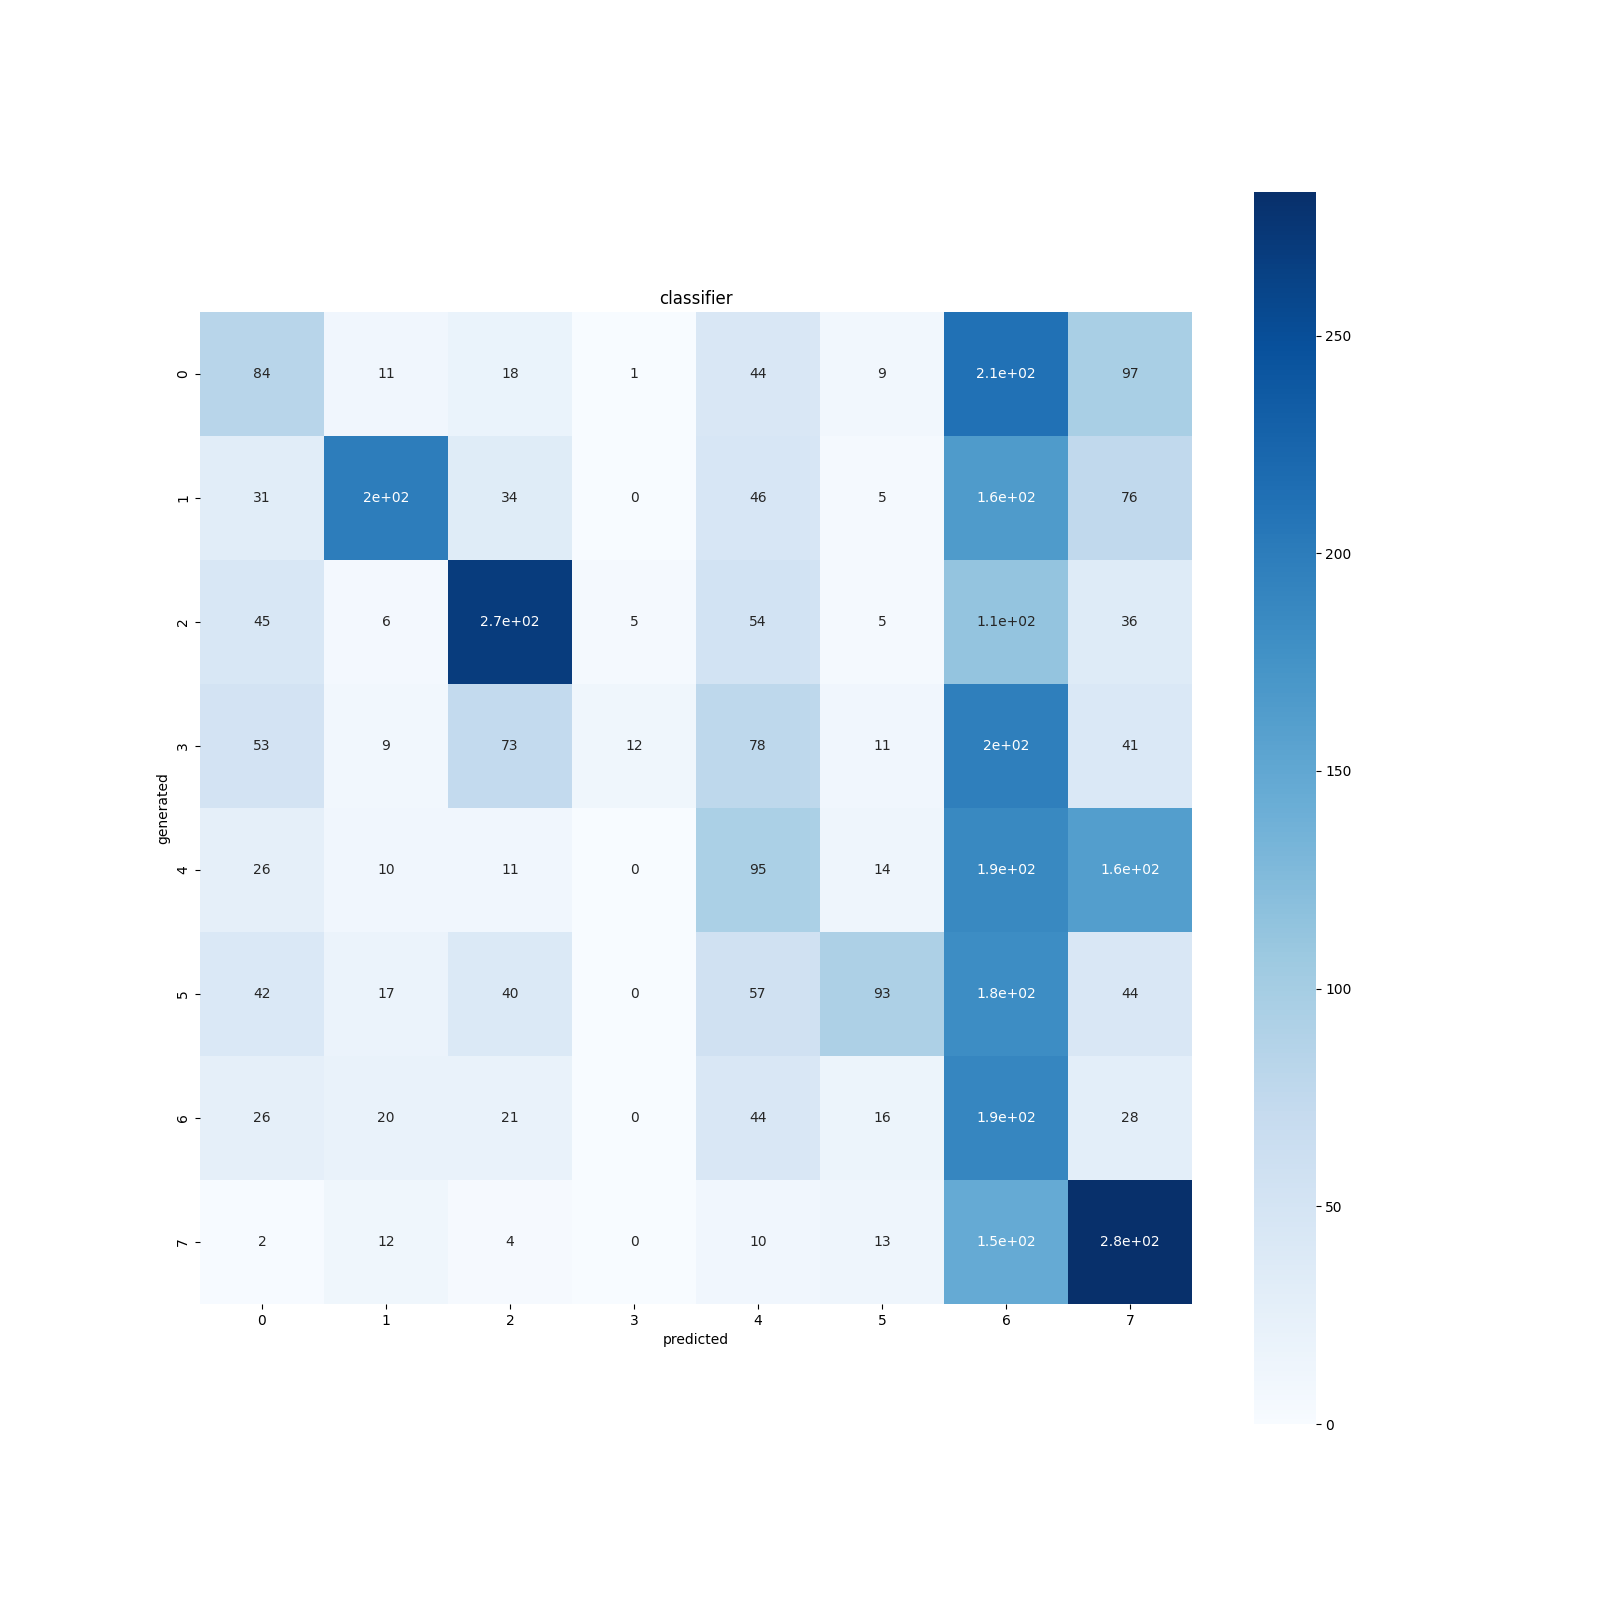
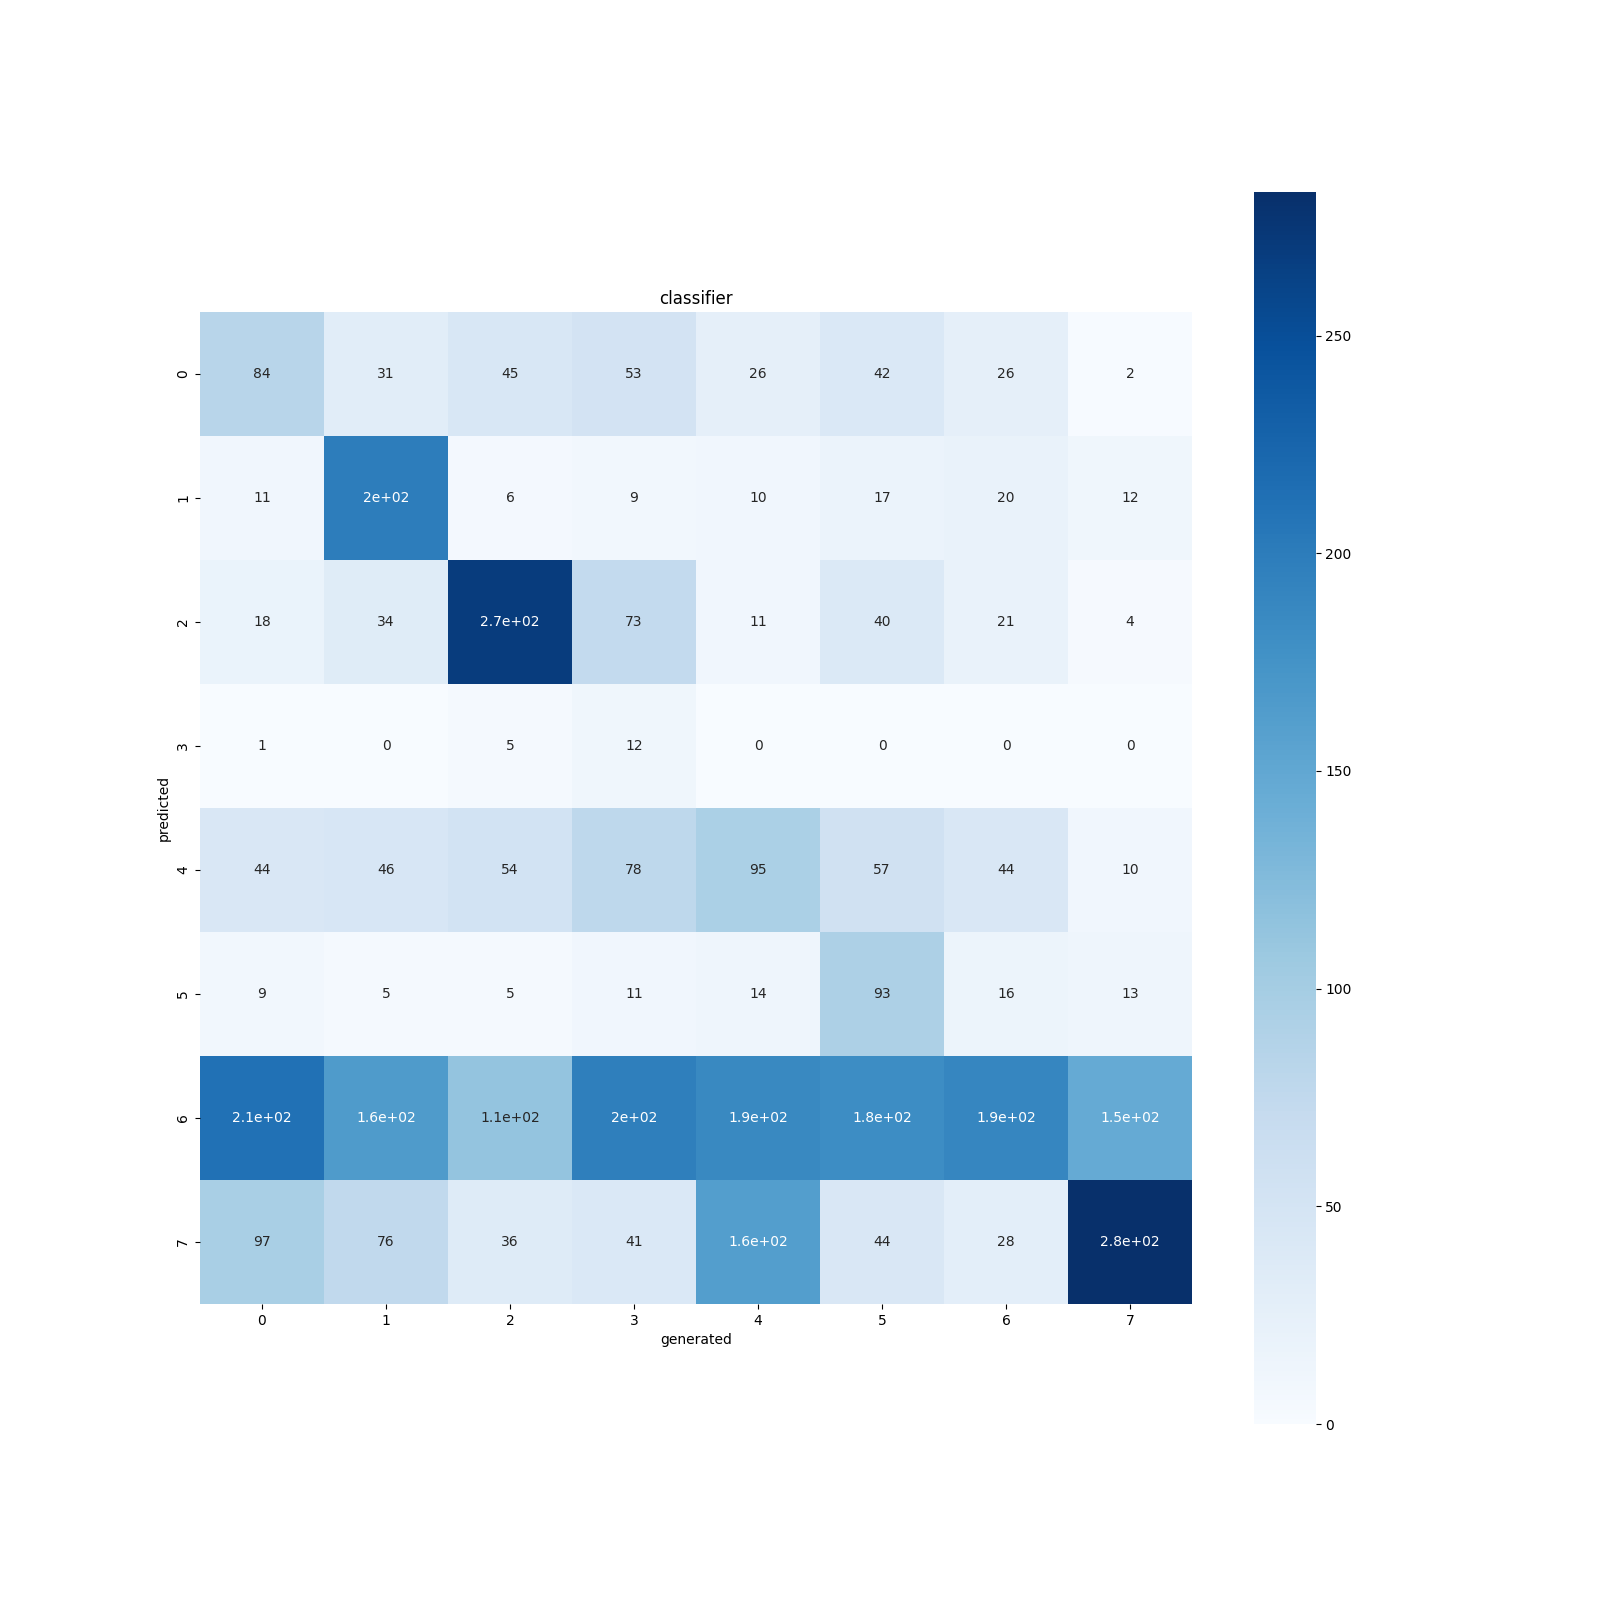
fix: validation

Changed region(s): [[0.0938, 0.1875, 0.75, 0.8438]]

diff --git a/validation/aa_predict_my_kw2title.py b/validation/aa_predict_my_kw2title.py
@@ -5,7 +5,7 @@ import seaborn
 import csv
 
 
-df_pred = pd.read_csv("./my_firs_app_kw2title_t5-ep20-wobody.csv")
+df_pred = pd.read_csv("./my_firs_app_kw2title_t5-ep20-wobody_pred.csv")
 appealing_axis_pred = df_pred.label.tolist()
 
 # 0-7の数字をrepeat_count回繰り返したリストを作成
@@ -14,6 +14,7 @@ print(appealing_axis_true)
 
 name = [0, 1, 2, 3, 4, 5, 6, 7]
 val_mat = confusion_matrix(appealing_axis_true, appealing_axis_pred, labels=name)
+val_mat = pd.DataFrame(val_mat).T.values.tolist()
 acc_score = accuracy_score(appealing_axis_true, appealing_axis_pred)
 rec_score = recall_score(appealing_axis_true, appealing_axis_pred, average=None)
 pre_score = precision_score(appealing_axis_true, appealing_axis_pred, average=None)
@@ -30,8 +31,8 @@ print(f"macro-F1 score: {macro_f1_score}")
 plt.figure(figsize=(16, 16))
 seaborn.heatmap(val_mat, square=True, cbar=True, annot=True, cmap='Blues')
 plt.title("classifier")
-plt.xlabel("predicted")
-plt.ylabel("generated")
+plt.ylabel("predicted")
+plt.xlabel("generated")
 plt.savefig("my_first_app_kw2title.png")
 
 with open("./my_first_app_kw2title.txt", "w") as f:

diff --git a/validation/aa_predict_kw2title.py b/validation/aa_predict_kw2title.py
@@ -10,6 +10,7 @@ appealing_axis_true = [ 8 for _ in range(len(appealing_axis_pred))]
 
 name = [0, 1, 2, 3, 4, 5, 6, 7, 8]
 val_mat = confusion_matrix(appealing_axis_true, appealing_axis_pred, labels=name)
+val_mat = pd.DataFrame(val_mat).T.values.tolist()
 acc_score = accuracy_score(appealing_axis_true, appealing_axis_pred)
 rec_score = recall_score(appealing_axis_true, appealing_axis_pred, average=None)
 pre_score = precision_score(appealing_axis_true, appealing_axis_pred, average=None)
@@ -26,8 +27,8 @@ print(f"macro-F1 score: {macro_f1_score}")
 plt.figure(figsize=(16, 16))
 seaborn.heatmap(val_mat, square=True, cbar=True, annot=True, cmap='Blues')
 plt.title("classifier")
-plt.xlabel("predicted")
-plt.ylabel("generated")
+plt.ylabel("predicted")
+plt.xlabel("generated")
 plt.savefig("kw2title.png")
 
 with open("./kw2title.txt", "w") as f:

diff --git a/validation/aa_predict_app_kw2title.py b/validation/aa_predict_app_kw2title.py
@@ -14,6 +14,7 @@ print(appealing_axis_true)
 
 name = [0, 1, 2, 3, 4, 5, 6, 7]
 val_mat = confusion_matrix(appealing_axis_true, appealing_axis_pred, labels=name)
+val_mat = pd.DataFrame(val_mat).T.values.tolist()
 acc_score = accuracy_score(appealing_axis_true, appealing_axis_pred)
 rec_score = recall_score(appealing_axis_true, appealing_axis_pred, average=None)
 pre_score = precision_score(appealing_axis_true, appealing_axis_pred, average=None)
@@ -30,8 +31,8 @@ print(f"macro-F1 score: {macro_f1_score}")
 plt.figure(figsize=(16, 16))
 seaborn.heatmap(val_mat, square=True, cbar=True, annot=True, cmap='Blues')
 plt.title("classifier")
-plt.xlabel("predicted")
-plt.ylabel("generated")
+plt.ylabel("predicted")
+plt.xlabel("generated")
 plt.savefig("app_kw2title.png")
 
 with open("./app_kw2title.txt", "w") as f:

diff --git a/validation/classifier_validation.py b/validation/classifier_validation.py
@@ -11,6 +11,7 @@ appealing_axis_pred = df_pred.label.tolist()
 
 name = [0, 1, 2, 3, 4, 5, 6, 7, 8]
 val_mat = confusion_matrix(appealing_axis_true, appealing_axis_pred, labels=name)
+val_mat = pd.DataFrame(val_mat).T.values.tolist()
 acc_score = accuracy_score(appealing_axis_true, appealing_axis_pred)
 rec_score = recall_score(appealing_axis_true, appealing_axis_pred, average=None)
 pre_score = precision_score(appealing_axis_true, appealing_axis_pred, average=None)
@@ -27,6 +28,6 @@ print(f"macro-F1 score: {macro_f1_score}")
 plt.figure(figsize=(16, 16))
 seaborn.heatmap(val_mat, square=True, cbar=True, annot=True, cmap='Blues')
 plt.title("classifier")
-plt.xlabel("predicted")
-plt.ylabel("generated")
+plt.ylabel("predicted")
+plt.xlabel("generated")
 plt.savefig("classifier.png")
